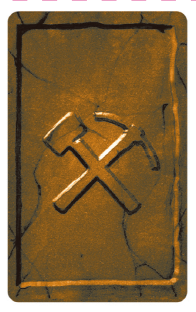
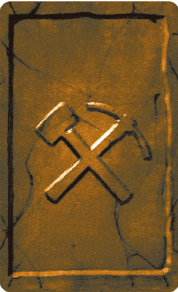
Add objective card images and update board rendering logic

diff --git a/frontend/src/game/board.js b/frontend/src/game/board.js
@@ -10,6 +10,7 @@ import saboteurRol from '../game/cards-images/roles/saboteurRol.png';
 import tokenService from '../services/token.service.js';
 import avatar from "../static/images/icons/1.jpeg"
 import startCardImage from '../static/images/card-images/tunnel-cards/start.png';
+import objetivecardreverse from '../static/images/card-images/reverses/objetive_card_reverse.png';
 
 const jwt = tokenService.getLocalAccessToken();
 
@@ -44,6 +45,11 @@ export default function Board() {
   const [boardCells, setBoardCells] = useState(() => {
     const initialBoard = Array.from({ length: BOARD_ROWS }, () => Array.from({ length: BOARD_COLS }, () => null));
     initialBoard[4][1] = { type: 'start', owner: 'system', placedAt: Date.now() };
+    initialBoard[4][9] = { type: 'objective', owner: 'system', placedAt: Date.now() };
+    initialBoard[2][9] = { type: 'objective', placedAt: Date.now() };
+    initialBoard[6][9] = { type: 'objective', placedAt: Date.now() };
+    
+
 
     return initialBoard;
   });
@@ -321,153 +327,167 @@ const handleDiscard = () => {
   const cards = [...Array(CardPorPlayer)].map((_, i) => (
     <button key={i} className="card-slot">Cards {i + 1}</button>));
 
+  
+// nueva función para renderizar el contenido de la celda (usa if/else)
+const renderCellContent = (row, col, cell) => {
+  if (!cell) {
+    return <div className="cell-coords">{row},{col}</div>;
+  }
+
+  if (cell.type === 'start') {
+    return <img src={startCardImage} alt="Start Card" className="static-card-image" />;
+  }
+
+  if (cell.type === 'objective') {
+    return (
+      <div className="card-preview objective">
+        <img src={objetivecardreverse} alt="Objective Card" className="static-card-image" />
+        
+      </div>
+    );
+  }
+
+  // default rendering for path or other card types
   return (
-    <div className="board-container">
-
-      <div className="logo-container">
-        <img src="/logo1-recortado.png" alt="logo" className="logo-img1"/>
-      </div>
-
-      <div className="player-cards">
-        <div className="cards-label">MY CARDS</div>
-        <div className="cards-list">
-            {cards}
-        </div>
-      </div>
-
-      <div className="my-role">
-        MY ROLE:
-        <div className="logo-img">
-      <img 
-        src={Array.isArray(playerRol) 
-              ? playerRol.find(p => p.username === loggedInUser.username)?.roleImg || minerRol
-              : minerRol
-            } 
-        alt="My Role" 
-        className="logo-img"
-      />
-        </div>
-      </div>
-
-      <div className="n-deck">
-        🎴{deckfuction()}
-      </div>
-
-      <button className="n-discard" onClick={handleDiscard}>
-        📥 Discard
-      </button>
-
-      <div className="time-card">
-       ⏰ {formatTime(cont)}
-      </div>
-
-      <div className="round-box">
-        🕓·ROUND {numRound}/3 
-      </div>
-
-      <div ref={boardGridRef} className="board-grid saboteur-grid">
-        {boardCells.map((row, r) => (
-          <div key={`row-${r}`} className="board-row">
-            {row.map((cell, c) => (
-              <div
-                key={`cell-${r}-${c}`}
-                className={`board-cell ${cell ? 'has-card' : ''}`}
-                onClick={() => handleCellClick(r, c)}
-                onContextMenu={(e) => { e.preventDefault(); handleCellRightClick(r, c); }}
-                title={cell ? `Card: ${cell.type} (by ${cell.owner})` : `Empty ${r},${c}`}
-              >
-                {cell ? (
-                  <div className="card-preview">
-                    <div className="card-type">{cell.type}</div>
-                    <div className="card-owner">{cell.owner}</div>
-                  </div>
-                ) : (
-                  <div className="cell-coords">{r},{c}</div>
-                )}
-                {cell ? (
-                  cell.type === 'start' ? (
-                    <img src={startCardImage} alt="Start Card" className="static-card-image" />
-                  ) : (
-                    <div className="card-preview">
-                      <div className="card-type">{cell.type}</div>
-                      <div className="card-owner">{cell.owner}</div>
-                    </div>
-                  )
-                ) : (
-                  <div className="cell-coords">{r},{c}</div>
-                )}
-              </div>
-            ))}
-          </div>
-        ))}
-      </div>
-
-      <div className="turn-box">
-        🔴 · TURNO DE {currentPlayer}
-      </div>
-
-      <div className="players-var">
-        {activePlayers.map((activePlayers, index) => (
-          <div key={index} className={`player-card player${index + 1}`}>
-            <div className="player-avatar">
-              <img src={activePlayers.profileImage || avatar} alt={activePlayers.username || activePlayers} />
-            </div>
-            <div className={`player-name player${index + 1}`}>
-              {activePlayers.username || activePlayers}
-            </div>
-            <div className="player-lint"> 🔦 : 🟢 {/*stateLint*/}</div>
-            <div className="player-vag">🪨 : 🟢 {/*stateVag*/}</div> 
-            <div className="player-pic"> ⛏ : 🟢 {/*statePic*/} </div> {/* Habrá que poner la funcion que hace que verifique si un usuario tiene esa acción disponible*/}
-            <div className="player-pep"> 🪙 : 0 {/*numPep*/} 🎴 : {CardPorPlayer} </div>
-          </div>
-        ))}
-      </div>
-
-      <div className="game-log">
-        <div className="game-log-header">💻 GAME LOG 💻</div>
-        <div className="game-log-messages">
-          {gameLog.length === 0 && privateLog.length === 0 ? (
-            <p className="no-log">❕No actions yet...</p>
-          ) : (
-            <>
-              {gameLog.map((log, index) => (
-                <p
-                  key={`global-${index}`}
-                  className={`log-entry ${log.type}`}
-                  dangerouslySetInnerHTML={{ __html: log.msg }}/>))}
-
-              {privateLog.map((log, index) => (
-                <p
-                  key={`private-${index}`}
-                  className={`log-entry ${log.type}`}
-                  dangerouslySetInnerHTML={{ __html: log.msg }}/>))}
-            </>
-          )}
-          <div ref={messagesEndRef} />
-        </div>
-      </div>
-
-
-      <div className="chat-box">
-        <div className="chat-header">TEXT CHAT</div>
-
-        <div className="chat-messages">
-          {message.length===0 ? ( <p className="no-messages">Not messages yet...</p>
-          ):(
-            message.map((msg, index) => (
-              <p key={index}><strong>{msg.author}:</strong> {msg.text}</p>
-            ))
-          )}
-        </div>
-        <form className="chat-input" onSubmit={SendMessage}>
-          <input
-            type="text"
-            placeholder="Write a message📥"
-            value={newMessage}
-            onChange={(e) => setNewMessage(e.target.value)}
-          />
-        </form>
-      </div>
+    <div className="card-preview path">
+      <div className="card-type">{cell.type}</div>
+      <div className="card-owner small">{cell.owner}</div>
     </div>
   );
+}
+
+
+return (
+  <div className="board-container">
+
+    <div className="logo-container">
+      <img src="/logo1-recortado.png" alt="logo" className="logo-img1"/>
+    </div>
+
+    <div className="player-cards">
+      <div className="cards-label">MY CARDS</div>
+      <div className="cards-list">
+          {cards}
+      </div>
+    </div>
+
+    <div className="my-role">
+      MY ROLE:
+      <div className="logo-img">
+    <img 
+      src={Array.isArray(playerRol) 
+            ? playerRol.find(p => p.username === loggedInUser.username)?.roleImg || minerRol
+            : minerRol
+          } 
+      alt="My Role" 
+      className="logo-img"
+    />
+      </div>
+    </div>
+
+    <div className="n-deck">
+      🎴{deckfuction()}
+    </div>
+
+    <button className="n-discard" onClick={handleDiscard}>
+      📥 Discard
+    </button>
+
+    <div className="time-card">
+     ⏰ {formatTime(cont)}
+    </div>
+
+    <div className="round-box">
+      🕓·ROUND {numRound}/3 
+    </div>
+
+     <div ref={boardGridRef} className="board-grid saboteur-grid">
+      {boardCells.map((row, r) => (
+        <div key={`row-${r}`} className="board-row">
+          {row.map((cell, c) => (
+            <div
+              key={`cell-${r}-${c}`}
+              className={`board-cell ${cell ? 'has-card' : ''}`}
+              onClick={() => handleCellClick(r, c)}
+              onContextMenu={(e) => { e.preventDefault(); handleCellRightClick(r, c); }}
+              title={cell ? `Card: ${cell.type} (by ${cell.owner})` : `Empty ${r},${c}`}
+            >
+              {renderCellContent(r, c, cell)}
+            </div>
+          ))}
+        </div>
+      ))}
+    </div>
+
+    <div className="turn-box">
+      🔴 · TURNO DE {currentPlayer}
+    </div>
+
+    <div className="players-var">
+      {activePlayers.map((activePlayers, index) => (
+        <div key={index} className={`player-card player${index + 1}`}>
+          <div className="player-avatar">
+            <img src={activePlayers.profileImage || avatar} alt={activePlayers.username || activePlayers} />
+          </div>
+          <div className={`player-name player${index + 1}`}>
+            {activePlayers.username || activePlayers}
+          </div>
+          <div className="player-lint"> 🔦 : 🟢 {/*stateLint*/}</div>
+          <div className="player-vag">🪨 : 🟢 {/*stateVag*/}</div> 
+          <div className="player-pic"> ⛏ : 🟢 {/*statePic*/} </div> {/* Habrá que poner la funcion que hace que verifique si un usuario tiene esa acción disponible*/}
+          <div className="player-pep"> 🪙 : 0 {/*numPep*/} 🎴 : {CardPorPlayer} </div>
+        </div>
+      ))}
+
+    </div>
+
+    <div className="game-log">
+      <div className="game-log-header">💻 GAME LOG 💻</div>
+      <div className="game-log-messages">
+        {gameLog.length === 0 && privateLog.length === 0 ? (
+          <p className="no-log">❕No actions yet...</p>
+        ) : (
+          <>
+            {gameLog.map((log, index) => (
+              <p
+                key={`global-${index}`}
+                className={`log-entry ${log.type}`}
+                dangerouslySetInnerHTML={{ __html: log.msg }}/>))}
+
+            {privateLog.map((log, index) => (
+              <p
+                key={`private-${index}`}
+                className={`log-entry ${log.type}`}
+                dangerouslySetInnerHTML={{ __html: log.msg }}/>))}
+
+          </>
+        )}
+        <div ref={messagesEndRef} />
+      </div>
+    </div>
+
+
+    <div className="chat-box">
+      <div className="chat-header">TEXT CHAT</div>
+
+      <div className="chat-messages">
+        {message.length===0 ? ( <p className="no-messages">Not messages yet...</p>
+        ):(
+          message.map((msg, index) => (
+            <p key={index}><strong>{msg.author}:</strong> {msg.text}</p>
+          ))
+        )}
+      </div>
+      <form className="chat-input" onSubmit={SendMessage}>
+        <input
+          type="text"
+          placeholder="Write a message📥"
+          value={newMessage}
+          onChange={(e) => setNewMessage(e.target.value)}
+        />
+      </form>
+    </div>
+  </div>
+);
+
 }

diff --git a/frontend/src/static/css/game/game.css b/frontend/src/static/css/game/game.css
@@ -139,7 +139,7 @@
   --board-padding: 8px;
   display: grid;
   gap: var(--cell-gap);
-  background: #222;
+  background: transparent;
   padding: var(--board-padding);
   border-radius: 8px;
   
@@ -156,13 +156,13 @@
 }
 
 .board-cell {
-  background: #2b2b2b;
+  background: #e0d8d800;
   border: 1px solid #444;
   display:flex;
   align-items:center;
   justify-content:center;
   font-size:11px;
-  color:#fff;
+  color:#ffffff00;
   cursor:pointer;
   user-select:none;
   padding:6px 8px;
@@ -458,8 +458,9 @@
   box-shadow: 0 2px 6px rgba(0,0,0,0.15);}
 
 .static-card-image {
-  width: 100%;
-  height: 100%;
-  object-fit: cover; /* Asegura que la imagen cubra la celda sin deformarse */
+  width: 60px;
+  height: auto;
+  position: relative;
+  object-fit: cover;
   border-radius: 6px;  /* Para que coincida con el borde de la celda */
 }
